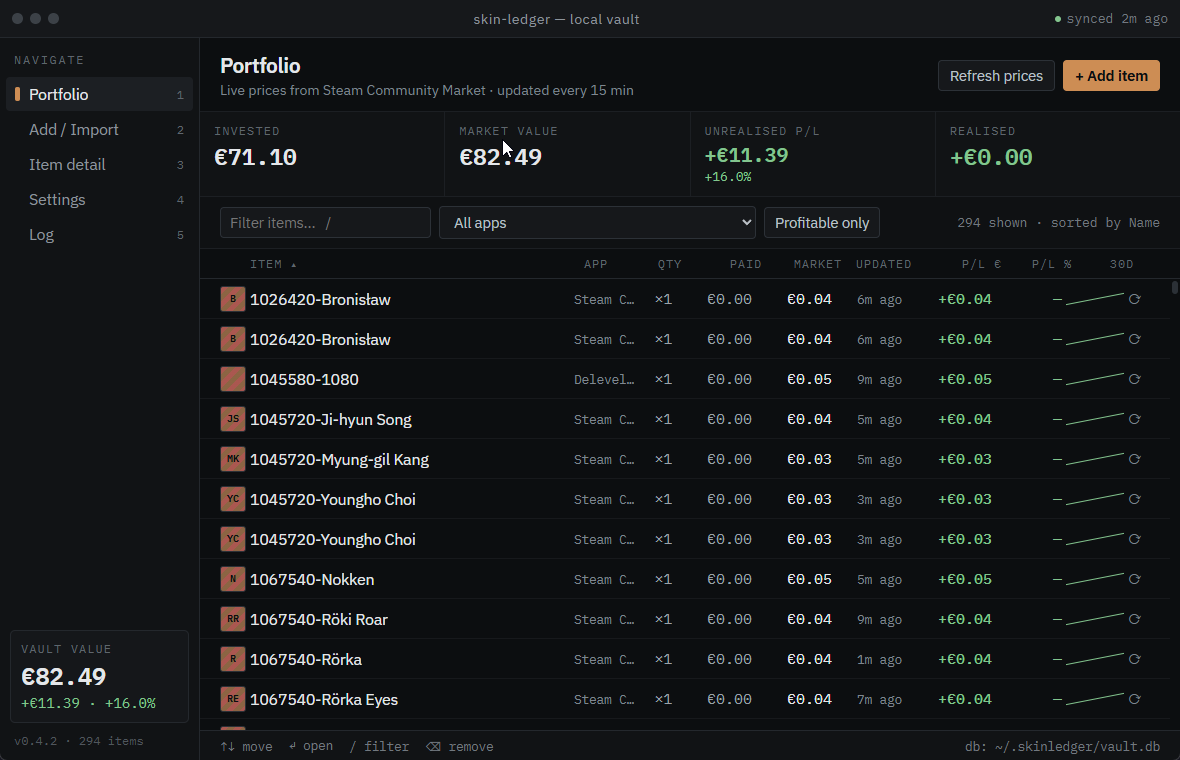
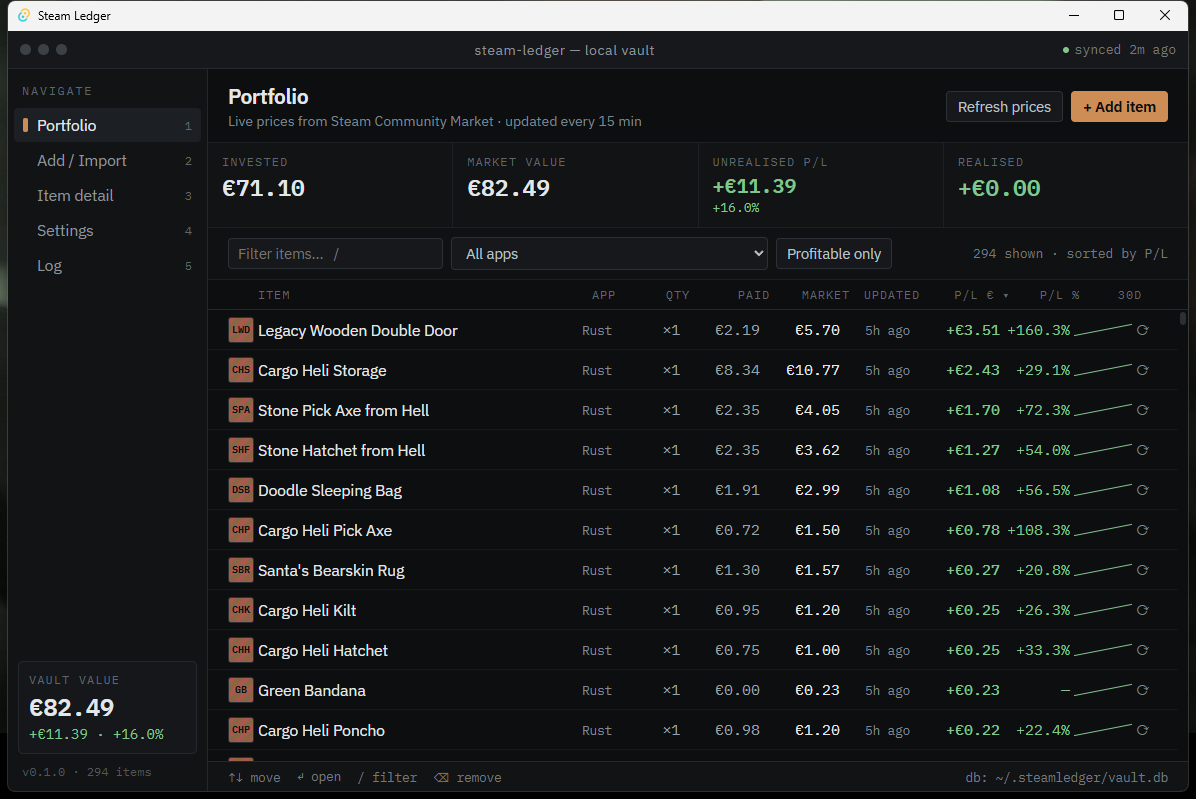
Replace the marketing screenshot with a real current-build capture, fix a stale hardcoded version string, and add beta/safety messaging to the Pages site.
Fresh screenshot captured directly from the actual Windows app (real,
fully-imported 294-item vault, correct branding), replacing an old one
that still showed pre-rebrand "skin-ledger"/v0.4.2 baked into the pixels.
Also fixed shell.js's hardcoded "v0.4.2" (never matched the real 0.1.0
version). Added a BETA banner and a "SAFE TO USE" callout clarifying the
Steam cookie is used only to read the user's own history/inventory.

diff --git a/site/index.html b/site/index.html
@@ -48,6 +48,11 @@
     </div>
   </header>
 
+  <div style="background:#241a08;border-bottom:1px solid #4a3512;padding:11px 28px;text-align:center">
+    <span style="font-family:'IBM Plex Mono',monospace;font-size:12.5px;letter-spacing:0.04em;color:#f0c07a">BETA — actively developed, expect rough edges.</span>
+    <a href="https://github.com/dfsramos/steam-ledger/issues" target="_blank" rel="noopener" style="font-family:'IBM Plex Mono',monospace;font-size:12.5px;color:#f0a12e;text-decoration:underline;margin-left:6px">Report an issue ↗</a>
+  </div>
+
   <section style="max-width:1140px;margin:0 auto;padding:72px 28px 40px;display:grid;grid-template-columns:repeat(auto-fit,minmax(380px,1fr));gap:56px;align-items:center">
     <div>
       <div style="display:inline-flex;align-items:center;gap:10px;border:1px solid #26282c;border-radius:2px;padding:5px 10px;font-family:'IBM Plex Mono',monospace;font-size:11px;letter-spacing:0.1em;color:#9aa0a6;margin-bottom:26px">
@@ -163,7 +168,16 @@
   </section>
 
   <section id="privacy" style="border-top:1px solid #16181b">
-    <div style="max-width:1140px;margin:0 auto;padding:80px 28px;display:grid;grid-template-columns:repeat(auto-fit,minmax(340px,1fr));gap:56px">
+    <div style="max-width:1140px;margin:0 auto;padding:80px 28px 0">
+      <div style="display:flex;align-items:flex-start;gap:16px;border:1px solid #234a30;background:#0d1911;border-radius:6px;padding:24px 26px;margin-bottom:56px">
+        <span style="font-family:'IBM Plex Mono',monospace;font-size:20px;color:#5ad07a;line-height:1;margin-top:2px">✓</span>
+        <div>
+          <div style="font-family:'IBM Plex Mono',monospace;font-size:12px;letter-spacing:0.14em;color:#5ad07a;font-weight:600;margin-bottom:8px">SAFE TO USE</div>
+          <p style="color:#c7ccd1;font-size:15.5px;line-height:1.65;margin:0;max-width:70ch;text-wrap:pretty">The full source is open, so you can read exactly what happens with your Steam session before you trust it with a cookie. That cookie is used for exactly one thing: reading <em>your own</em> Community Market history, Store purchase history, and inventory directly from Steam's own endpoints. Nothing is bought, sold, traded, or changed on your account, and nothing is sent anywhere except Steam itself.</p>
+        </div>
+      </div>
+    </div>
+    <div style="max-width:1140px;margin:0 auto;padding:0 28px 80px;display:grid;grid-template-columns:repeat(auto-fit,minmax(340px,1fr));gap:56px">
       <div>
         <div style="font-family:'IBM Plex Mono',monospace;font-size:11px;letter-spacing:0.18em;color:#f0a12e;margin-bottom:14px">02 — WHERE YOUR DATA LIVES</div>
         <h2 style="font-size:clamp(30px,3.4vw,42px);letter-spacing:-0.025em;font-weight:600;margin:0 0 18px;line-height:1.1">It never leaves your machine.</h2>

diff --git a/src/screens/shell.js b/src/screens/shell.js
@@ -80,7 +80,7 @@ export function render() {
             <div style="font-family:'IBM Plex Mono', monospace; font-size:24px; font-weight:600; margin-top:4px; letter-spacing:-0.01em;">${vaultValue}</div>
             <div style="font-family:'IBM Plex Mono', monospace; font-size:14px; margin-top:2px; color:${vaultPnlColor};">${vaultPnl}</div>
           </div>
-          <div style="padding:10px 14px 2px; font-family:'IBM Plex Mono', monospace; font-size:12px; color:#4e565c;">v0.4.2 · ${itemCount} items</div>
+          <div style="padding:10px 14px 2px; font-family:'IBM Plex Mono', monospace; font-size:12px; color:#4e565c;">v0.1.0 · ${itemCount} items</div>
         </div>
 
         <div id="screen-root" style="flex:1; min-width:0; display:flex; flex-direction:column; background:#0c0e10;"></div>
